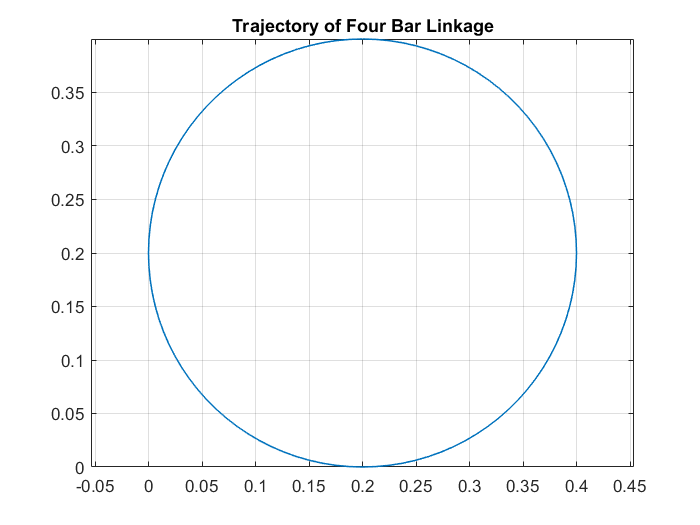
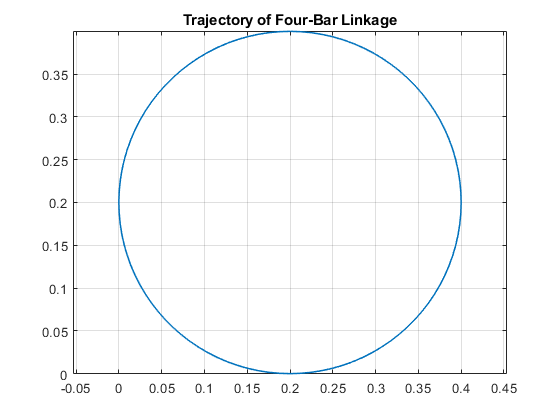
Initial commit R2017b

diff --git a/html/html/sm_four_bar_optim.html b/html/html/sm_four_bar_optim.html
@@ -6,7 +6,7 @@
    <!--
 This HTML was auto-generated from MATLAB code.
 To make changes, update the MATLAB code and republish this document.
-      --><title>Four Bar Trajectory Optimization</title><meta name="generator" content="MATLAB 9.2"><link rel="schema.DC" href="http://purl.org/dc/elements/1.1/"><meta name="DC.date" content="2017-03-31"><meta name="DC.source" content="sm_four_bar_optim.m"><style type="text/css">
+      --><title>Four-Bar Linkage Optimization</title><meta name="generator" content="MATLAB 9.3"><link rel="schema.DC" href="http://purl.org/dc/elements/1.1/"><meta name="DC.date" content="2017-09-06"><meta name="DC.source" content="sm_four_bar_optim.m"><style type="text/css">
 html,body,div,span,applet,object,iframe,h1,h2,h3,h4,h5,h6,p,blockquote,pre,a,abbr,acronym,address,big,cite,code,del,dfn,em,font,img,ins,kbd,q,s,samp,small,strike,strong,sub,sup,tt,var,b,u,i,center,dl,dt,dd,ol,ul,li,fieldset,form,label,legend,table,caption,tbody,tfoot,thead,tr,th,td{margin:0;padding:0;border:0;outline:0;font-size:100%;vertical-align:baseline;background:transparent}body{line-height:1}ol,ul{list-style:none}blockquote,q{quotes:none}blockquote:before,blockquote:after,q:before,q:after{content:'';content:none}:focus{outine:0}ins{text-decoration:none}del{text-decoration:line-through}table{border-collapse:collapse;border-spacing:0}
 
 html { min-height:100%; margin-bottom:1px; }
@@ -66,39 +66,39 @@ table td { padding:7px 5px; text-align:left; vertical-align:top; border:1px soli
 
 
 
-  </style></head><body><div class="content"><h1>Four Bar Trajectory Optimization</h1><!--introduction--><p>This examples shows a four bar linkage modeled in Simscape Multibody that is used for an optimization study.</p><p>Mechanical designers often wish to design a four bar linkage that will enable an end effector to follow a certain path.  The lengths of the links and the position of the end effector influence the trajectory of the end effector in a complex kinematic relationship.  Optimization algorithms can be used to tune those lengths to achieve the desired motion.</p><p>In this example, a parameter sweep is performed to see which trajectories are possible when varying a subset of the lengths.  Then those lengths are tuned using optimization algorithms until the resulting trajectory is within tolerances of the desired trajectory.</p><!--/introduction--><h2>Contents</h2><div><ul><li><a href="#1">Model</a></li><li><a href="#3">Simulation Results from Simscape Logging</a></li><li><a href="#5">Results from Parameter Sweep</a></li><li><a href="#7">Results from Optimization</a></li></ul></div><h2 id="1">Model</h2><img vspace="5" hspace="5" src="sm_four_bar_optim_01.png" style="width:446px;height:369px;" alt=""> <p><img vspace="5" hspace="5" src="sm_four_bar_optim_mechanics_explorer_IMAGE.png" alt=""> </p><h2 id="3">Simulation Results from Simscape Logging</h2><p>The plot below shows the path of a pointer on the end of a four bar linkage.  Varying the lengths of the bars will change the trajectory of this point.</p><img vspace="5" hspace="5" src="sm_four_bar_optim_02.png" style="width:560px;height:420px;" alt=""> <h2 id="5">Results from Parameter Sweep</h2><p>Four-bar linkages can be grouped into various cases based on the lengths of their links.  See <a href="http://en.wikipedia.org/wiki/File:Linkage_four_bar_fixed.svg">http://en.wikipedia.org/wiki/File:Linkage_four_bar_fixed.svg</a> The resulting trajectories vary quite widely.  We will limit the scope of our problem to a crank-rocker mechanism.  This means:</p><div><ol><li>Link a (driven link) is the shortest link     (a &lt;= min(b,c,d))</li><li>Link b (connecting link) is the longest link  (b &gt;= max(a,c,d))</li><li>Link a must be able to rotate 180 degrees     (a+b &lt;= c+d)</li></ol></div><img vspace="5" hspace="5" src="sm_four_bar_optim_03.png" style="width:560px;height:420px;" alt=""> <h2 id="7">Results from Optimization</h2><p>Adhering to the same conditions as in the parameter sweep, optimization algorithms are used to find the lengths of Bar A and Bar B that permit the point on the four bar linkage to follow the desired trajectory.  Note that the trajectories are translated so that the minimum x and y values of the trajectories are 0.  This makes visual inspection of the curves slightly easier.</p><pre class="codeoutput">
+  </style></head><body><div class="content"><h1>Four-Bar Linkage Optimization</h1><!--introduction--><p>This example shows a four-bar linkage modeled in Simscape Multibody that is optimized using MATLAB.</p><p>Mechanical designers often wish to design a four-bar linkage that will enable an end effector to follow a certain path.  The lengths of the links and the position of the end effector influence the trajectory of the end effector in a complex kinematic relationship.  Optimization algorithms can be used to tune those lengths to achieve the desired motion.</p><p>In this example, a parameter sweep is performed to see which trajectories are possible when varying a subset of the lengths.  Then those lengths are tuned using MATLAB optimization algorithms until the resulting trajectory is within tolerances of the desired trajectory.</p><!--/introduction--><h2>Contents</h2><div><ul><li><a href="#1">Model</a></li><li><a href="#3">Simulation Results from Simscape Logging</a></li><li><a href="#5">Results from Parameter Sweep</a></li><li><a href="#7">Results from Optimization</a></li></ul></div><h2 id="1">Model</h2><img vspace="5" hspace="5" src="sm_four_bar_optim_01.png" alt=""> <p><img vspace="5" hspace="5" src="sm_four_bar_optim_mechanics_explorer_IMAGE.png" alt=""> </p><h2 id="3">Simulation Results from Simscape Logging</h2><p>The plot below shows the path of a pointer on the end of a four-bar linkage.  Varying the lengths of the bars will change the trajectory of this point.</p><img vspace="5" hspace="5" src="sm_four_bar_optim_02.png" alt=""> <h2 id="5">Results from Parameter Sweep</h2><p>Four-bar linkages can be grouped into various cases based on the lengths of their links.  See <a href="http://en.wikipedia.org/wiki/File:Linkage_four_bar_fixed.svg">http://en.wikipedia.org/wiki/File:Linkage_four_bar_fixed.svg</a> The resulting trajectories vary quite widely.  We will limit the scope of our problem to a crank-rocker mechanism.  This means:</p><div><ol><li>Link a (driven link) is the shortest link     (a &lt;= min(b,c,d))</li><li>Link b (connecting link) is the longest link  (b &gt;= max(a,c,d))</li><li>Link a must be able to rotate 180 degrees     (a+b &lt;= c+d)</li></ol></div><img vspace="5" hspace="5" src="sm_four_bar_optim_03.png" alt=""> <h2 id="7">Results from Optimization</h2><p>Adhering to the same conditions as in the parameter sweep, optimization algorithms are used to find the lengths of Bar A and Bar B that permit the point on the four-bar linkage to follow the desired trajectory.  Note that the trajectories are translated so that the minimum x and y values of the trajectories are 0.  This makes visual inspection of the curves slightly easier.</p><pre class="codeoutput">
 
 Iter     Func-count       f(x)      MeshSize     Method
     0           1       0.383738         0.215      
     1           1       0.383738       0.05375     Refine Mesh
     2           2     0.00661577        0.1075     Successful Poll
-    3           2     0.00661577       0.02688     Refine Mesh
+    3           2     0.00661577       0.02687     Refine Mesh
     4           5     0.00272638       0.05375     Successful Poll
     5           9    0.000112722        0.1075     Successful Poll
-    6          11    0.000112722       0.02688     Refine Mesh
+    6          11    0.000112722       0.02687     Refine Mesh
     7          15     2.0582e-05       0.05375     Successful Poll
     8          19     2.0582e-05       0.01344     Refine Mesh
-    9          23    1.67334e-06       0.02688     Successful Poll
+    9          23    1.67334e-06       0.02687     Successful Poll
    10          27    1.67334e-06      0.006719     Refine Mesh
    11          31    1.47731e-07       0.01344     Successful Poll
    12          35    1.47731e-07      0.003359     Refine Mesh
    13          39    1.47731e-07     0.0008398     Refine Mesh
 Optimization terminated: mesh size less than options.MeshTolerance.
-Elapsed Time = 24.3466
+Elapsed Time = 25.6766
     Link    Initial      Final  
     ____    ________    ________
 
     'a'     '0.1800'    '0.1195'
     'b'     '0.2500'    '0.2651'
 
-</pre><img vspace="5" hspace="5" src="sm_four_bar_optim_04.png" style="width:560px;height:420px;" alt=""> <img vspace="5" hspace="5" src="sm_four_bar_optim_05.png" style="width:560px;height:420px;" alt=""> <img vspace="5" hspace="5" src="sm_four_bar_optim_06.png" style="width:560px;height:420px;" alt=""> <p class="footer">Copyright 2017 The MathWorks, Inc.<br><a href="http://www.mathworks.com/products/matlab/">Published with MATLAB&reg; R2017a</a><br></p></div><!--
+</pre><img vspace="5" hspace="5" src="sm_four_bar_optim_04.png" alt=""> <img vspace="5" hspace="5" src="sm_four_bar_optim_05.png" alt=""> <img vspace="5" hspace="5" src="sm_four_bar_optim_06.png" alt=""> <p class="footer">Copyright 2017 The MathWorks, Inc.<br><a href="http://www.mathworks.com/products/matlab/">Published with MATLAB&reg; R2017b</a><br></p></div><!--
 ##### SOURCE BEGIN #####
-%% Four Bar Trajectory Optimization
+%% Four-Bar Linkage Optimization
 %
-% This examples shows a four bar linkage modeled in Simscape Multibody that
-% is used for an optimization study. 
+% This example shows a four-bar linkage modeled in Simscape Multibody that
+% is optimized using MATLAB. 
 %
-% Mechanical designers often wish to design a four bar linkage that will
+% Mechanical designers often wish to design a four-bar linkage that will
 % enable an end effector to follow a certain path.  The lengths of the
 % links and the position of the end effector influence the trajectory of
 % the end effector in a complex kinematic relationship.  Optimization
@@ -106,9 +106,9 @@ Elapsed Time = 24.3466
 % motion.
 %
 % In this example, a parameter sweep is performed to see which trajectories
-% are possible when varying a subset of the lengths.  Then those lengths are
-% tuned using optimization algorithms until the resulting trajectory is
-% within tolerances of the desired trajectory.
+% are possible when varying a subset of the lengths.  Then those lengths
+% are tuned using MATLAB optimization algorithms until the resulting
+% trajectory is within tolerances of the desired trajectory.
 % 
 % Copyright 2017 The MathWorks, Inc.
 
@@ -128,7 +128,7 @@ open_system('sm_four_bar_optim')
 %% Simulation Results from Simscape Logging
 %%
 %
-% The plot below shows the path of a pointer on the end of a four bar
+% The plot below shows the path of a pointer on the end of a four-bar
 % linkage.  Varying the lengths of the bars will change the trajectory of
 % this point.
 %
@@ -156,7 +156,7 @@ sm_four_bar_optim_param_sweep_run;
 %
 % Adhering to the same conditions as in the parameter sweep, optimization
 % algorithms are used to find the lengths of Bar A and Bar B that permit
-% the point on the four bar linkage to follow the desired trajectory.  Note
+% the point on the four-bar linkage to follow the desired trajectory.  Note
 % that the trajectories are translated so that the minimum x and y values
 % of the trajectories are 0.  This makes visual inspection of the curves
 % slightly easier.

diff --git a/html/sm_four_bar_optim.m b/html/sm_four_bar_optim.m
@@ -1,9 +1,9 @@
-%% Four Bar Trajectory Optimization
+%% Four-Bar Linkage Optimization
 %
-% This examples shows a four bar linkage modeled in Simscape Multibody that
-% is used for an optimization study. 
+% This example shows a four-bar linkage modeled in Simscape Multibody that
+% is optimized using MATLAB. 
 %
-% Mechanical designers often wish to design a four bar linkage that will
+% Mechanical designers often wish to design a four-bar linkage that will
 % enable an end effector to follow a certain path.  The lengths of the
 % links and the position of the end effector influence the trajectory of
 % the end effector in a complex kinematic relationship.  Optimization
@@ -11,9 +11,9 @@
 % motion.
 %
 % In this example, a parameter sweep is performed to see which trajectories
-% are possible when varying a subset of the lengths.  Then those lengths are
-% tuned using optimization algorithms until the resulting trajectory is
-% within tolerances of the desired trajectory.
+% are possible when varying a subset of the lengths.  Then those lengths
+% are tuned using MATLAB optimization algorithms until the resulting
+% trajectory is within tolerances of the desired trajectory.
 % 
 % Copyright 2017 The MathWorks, Inc.
 
@@ -33,7 +33,7 @@ open_system('sm_four_bar_optim')
 %% Simulation Results from Simscape Logging
 %%
 %
-% The plot below shows the path of a pointer on the end of a four bar
+% The plot below shows the path of a pointer on the end of a four-bar
 % linkage.  Varying the lengths of the bars will change the trajectory of
 % this point.
 %
@@ -61,7 +61,7 @@ sm_four_bar_optim_param_sweep_run;
 %
 % Adhering to the same conditions as in the parameter sweep, optimization
 % algorithms are used to find the lengths of Bar A and Bar B that permit
-% the point on the four bar linkage to follow the desired trajectory.  Note
+% the point on the four-bar linkage to follow the desired trajectory.  Note
 % that the trajectories are translated so that the minimum x and y values
 % of the trajectories are 0.  This makes visual inspection of the curves
 % slightly easier.

diff --git a/Scripts_Data/sm_four_bar_optim_plot1path.m b/Scripts_Data/sm_four_bar_optim_plot1path.m
@@ -1,7 +1,7 @@
 % Code to plot simulation results from sm_four_bar_optim
 %% Plot Description:
 %
-% The plot below shows the path of a pointer on the end of a four bar
+% The plot below shows the path of a pointer on the end of a four-bar
 % linkage.  Varying the lengths of the bars will change the trajectory of
 % this point.
 %
@@ -28,7 +28,7 @@ xy_pos = xy_pos_Data-min(xy_pos_Data);
 % Plot results
 plot(xy_pos(:,1),xy_pos(:,2),'LineWidth',1);
 axis equal
-title('Trajectory of Four Bar Linkage');
+title('Trajectory of Four-Bar Linkage');
 grid on
 
 % Remove temporary variables

diff --git a/Optim/obj_sm_four_bar_optim_match_path.m b/Optim/obj_sm_four_bar_optim_match_path.m
@@ -1,5 +1,5 @@
 function F  = obj_sm_four_bar_optim_match_path(mdl,param_v,x_data_des,y_data_des,map_h)
-% Objective function to optimize trajectory of four bar linkage
+% Objective function to optimize trajectory of four-bar linkage
 % Copyright 2017 The MathWorks, Inc.
 
 load_system(mdl);

diff --git a/Scripts_Data/sm_four_bar_optim_param_sweep_plot.m b/Scripts_Data/sm_four_bar_optim_param_sweep_plot.m
@@ -11,7 +11,7 @@ end
 figure(h2_sm_four_bar_optim)
 clf(h2_sm_four_bar_optim)
 numSims = length(simOut);
-title([num2str(numSims) ' Possible Trajectories for Four Bar Linkage'])
+title([num2str(numSims) ' Possible Trajectories for Four-Bar Linkage'])
 axis equal
 grid on
 hold on

diff --git a/Scripts_Data/sm_four_bar_optim_param_sweep_run.m b/Scripts_Data/sm_four_bar_optim_param_sweep_run.m
@@ -1,4 +1,4 @@
-% Parameter sweep for four bar linkage to see possible trajectories
+% Parameter sweep for four-bar linkage to see possible trajectories
 % Copyright 2017 MathWorks, Inc.
 
 % Fixed lengths

diff --git a/Optim/sm_four_bar_optim_match_path.m b/Optim/sm_four_bar_optim_match_path.m
@@ -1,4 +1,4 @@
-% Optimization tune four bar linkage to follow a desired trajectory
+% Optimization tune four-bar linkage to follow a desired trajectory
 % Copyright 2017 MathWorks, Inc.
 
 % Set up model
